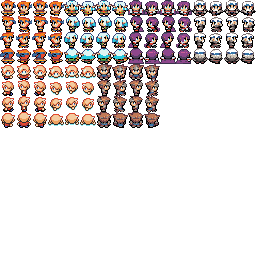
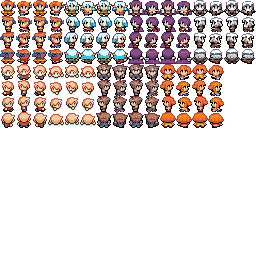
Update salesman sprite and text

Changed region(s): [[0.625, 0.25, 0.875, 0.5]]

diff --git a/src/scenes/game/game_objects/characters/salesman.cpp b/src/scenes/game/game_objects/characters/salesman.cpp
@@ -8,10 +8,10 @@
 Salesman::Salesman(map::MapSections map_section, Point position) : Character(map_section, position, true, false) {
 	tile_id = TILE_ID;
 	movement_sprites = {
-		{UP, {48, 49, 50, 51}},
-		{DOWN, {0, 1, 2, 3}},
-		{LEFT, {16, 17, 18, 19}},
-		{RIGHT, {32, 33, 34, 35}}
+		{UP, {122, 123, 124, 125}},
+		{DOWN, {74, 75, 76, 77}},
+		{LEFT, {106, 107, 108, 109}},
+		{RIGHT, {90, 91, 92, 93}}
 	};
 }
 
@@ -21,7 +21,7 @@ GameObject::ObjectType Salesman::get_type() {
 
 bool Salesman::player_interact() {
 	if (player_usable && camera::get_player_position() == position + Point(0, size.h + BAR_HEIGHT)) {
-		textbox = new Textbox("Test message");
+		textbox = new Textbox("Hello! Normally I would sell you carrot seeds but they are all gone.");
 		return true;
 	}
 

diff --git a/src/scenes/game/game_objects/characters/salesman.hpp b/src/scenes/game/game_objects/characters/salesman.hpp
@@ -7,7 +7,7 @@
 
 class Salesman : public Character {
 private:
-	const uint16_t TILE_ID = 0;
+	const uint16_t TILE_ID = 74;
 	const uint8_t BAR_HEIGHT = 1;
 
 	void set_state(uint8_t new_state) override;
